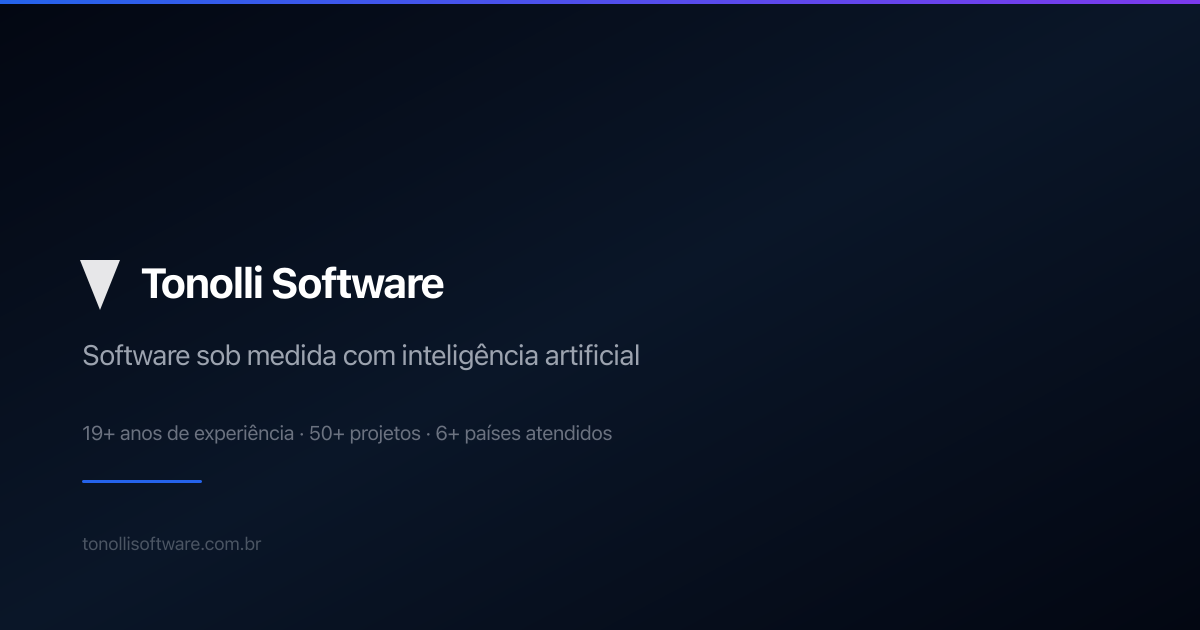
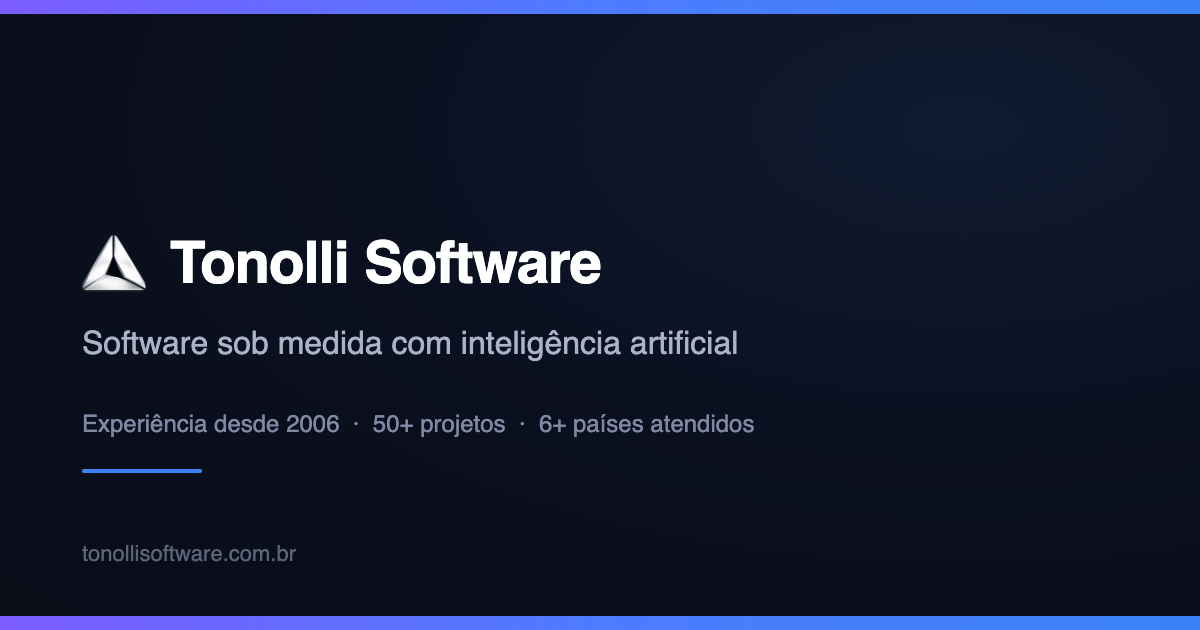
feat(seo): anos de experiencia calculados desde 2006 + og-image atualizada
- src/lib/content.ts: token {anos} nos JSONs de conteudo substituido no
  build por (ano atual - 2006) — "19+" hardcoded vira "20+" automatico
- Consumidores passam a importar o conteudo processado de @/lib/content
- og-image regenerada com logo real, "Experiencia desde 2006" (nao
  envelhece) no lugar de "19+ anos" gravado na arte
- foundingDate 2022 no schema Organization (consistente com /sobre)
- Cron anual no deploy.yml (02/jan) garante rebuild na virada do ano
- sitemap: barra final nas URLs (alinha com canonical, evita 308) e
  dominio sem www (ja estava ajustado no working tree, junto com robots)

diff --git a/src/lib/content.ts b/src/lib/content.ts
@@ -1,0 +1,35 @@
+import site from '@/content/site.json';
+import home from '@/content/home.json';
+import about from '@/content/about.json';
+import services from '@/content/services.json';
+import projects from '@/content/projects.json';
+import contact from '@/content/contact.json';
+
+// Início da carreira do fundador — base de todos os "X+ anos de experiência".
+// O valor é calculado no build (site estático); o cron anual no deploy.yml
+// garante rebuild na virada do ano.
+export const EXPERIENCE_START_YEAR = 2006;
+export const anosDeExperiencia = new Date().getFullYear() - EXPERIENCE_START_YEAR;
+
+// Substitui o token {anos} em qualquer string dos JSONs de conteúdo
+function withYears<T>(value: T): T {
+  if (typeof value === 'string') {
+    return value.replaceAll('{anos}', String(anosDeExperiencia)) as T;
+  }
+  if (Array.isArray(value)) {
+    return value.map(withYears) as T;
+  }
+  if (value && typeof value === 'object') {
+    return Object.fromEntries(
+      Object.entries(value).map(([k, v]) => [k, withYears(v)])
+    ) as T;
+  }
+  return value;
+}
+
+export const siteData = withYears(site);
+export const homeData = withYears(home);
+export const aboutData = withYears(about);
+export const servicesData = withYears(services);
+export const projectsData = withYears(projects);
+export const contactData = withYears(contact);

diff --git a/src/app/page.tsx b/src/app/page.tsx
@@ -6,13 +6,11 @@ import ProjectCard from '@/components/sections/ProjectCard';
 import TrustBar from '@/components/sections/TrustBar';
 import CTA from '@/components/sections/CTA';
 import SectionTitle from '@/components/ui/SectionTitle';
-import homeData from '@/content/home.json';
-import projectsData from '@/content/projects.json';
+import { homeData, projectsData, anosDeExperiencia } from '@/lib/content';
 
 export const metadata: Metadata = {
   title: 'Tonolli Software | Software Sob Medida para Empresas',
-  description:
-    'Fábrica de software B2B com 19+ anos. Desenvolvimento sob medida, modernização de sistemas e integração. 50+ projetos entregues no Brasil e exterior.',
+  description: `Fábrica de software B2B com ${anosDeExperiencia}+ anos de experiência. Desenvolvimento sob medida, modernização de sistemas e integração. 50+ projetos entregues no Brasil e exterior.`,
   alternates: { canonical: '/' },
 };
 

diff --git a/src/app/contato/page.tsx b/src/app/contato/page.tsx
@@ -2,9 +2,8 @@ import type { Metadata } from 'next';
 import { Mail, Phone, MapPin, type LucideIcon } from 'lucide-react';
 import Hero from '@/components/sections/Hero';
 import ContactWizard from '@/components/sections/ContactWizard';
-import contactData from '@/content/contact.json';
 import { breadcrumbJsonLd } from '@/lib/seo';
-import siteData from '@/content/site.json';
+import { contactData, siteData } from '@/lib/content';
 
 const iconMap: Record<string, LucideIcon> = { Mail, Phone, MapPin };
 

diff --git a/src/app/projetos/page.tsx b/src/app/projetos/page.tsx
@@ -2,9 +2,8 @@ import type { Metadata } from 'next';
 import Hero from '@/components/sections/Hero';
 import ProjectCard from '@/components/sections/ProjectCard';
 import CTA from '@/components/sections/CTA';
-import projectsData from '@/content/projects.json';
 import { breadcrumbJsonLd } from '@/lib/seo';
-import siteData from '@/content/site.json';
+import { projectsData, siteData } from '@/lib/content';
 
 export const metadata: Metadata = {
   title: 'Projetos',

diff --git a/src/app/servicos/page.tsx b/src/app/servicos/page.tsx
@@ -11,9 +11,8 @@ import Hero from '@/components/sections/Hero';
 import ProcessSteps from '@/components/sections/ProcessSteps';
 import CTA from '@/components/sections/CTA';
 import SectionTitle from '@/components/ui/SectionTitle';
-import servicesData from '@/content/services.json';
 import { breadcrumbJsonLd, serviceJsonLd } from '@/lib/seo';
-import siteData from '@/content/site.json';
+import { servicesData, siteData } from '@/lib/content';
 
 const iconMap: Record<string, LucideIcon> = {
   Code,

diff --git a/src/app/sobre/page.tsx b/src/app/sobre/page.tsx
@@ -5,9 +5,8 @@ import Stats from '@/components/sections/Stats';
 import CTA from '@/components/sections/CTA';
 import Card from '@/components/ui/Card';
 import SectionTitle from '@/components/ui/SectionTitle';
-import aboutData from '@/content/about.json';
 import { breadcrumbJsonLd } from '@/lib/seo';
-import siteData from '@/content/site.json';
+import { aboutData, siteData } from '@/lib/content';
 
 export const metadata: Metadata = {
   title: 'Sobre',

diff --git a/src/lib/seo.ts b/src/lib/seo.ts
@@ -1,4 +1,4 @@
-import siteData from '@/content/site.json';
+import { siteData } from '@/lib/content';
 
 export function organizationJsonLd() {
   return {
@@ -24,6 +24,7 @@ export function organizationJsonLd() {
       availableLanguage: ['Portuguese', 'English'],
     },
     sameAs: [siteData.social.linkedin, siteData.social.github],
+    foundingDate: '2022',
     founder: {
       '@type': 'Person',
       name: siteData.founder.name,

diff --git a/src/app/contato/obrigado/page.tsx b/src/app/contato/obrigado/page.tsx
@@ -1,7 +1,7 @@
 import type { Metadata } from 'next';
 import Link from 'next/link';
 import { CheckCircle, MessageCircle, ArrowRight } from 'lucide-react';
-import siteData from '@/content/site.json';
+import { siteData } from '@/lib/content';
 
 export const metadata: Metadata = {
   title: 'Projeto recebido — Tonolli Software',

diff --git a/src/app/layout.tsx b/src/app/layout.tsx
@@ -4,8 +4,8 @@ import './globals.css';
 import Header from '@/components/layout/Header';
 import Footer from '@/components/layout/Footer';
 import WhatsAppWidget from '@/components/sections/WhatsAppWidget';
-import siteData from '@/content/site.json';
 import { organizationJsonLd, websiteJsonLd, localBusinessJsonLd } from '@/lib/seo';
+import { siteData } from '@/lib/content';
 
 const inter = Inter({
   variable: '--font-inter',

diff --git a/src/components/layout/Footer.tsx b/src/components/layout/Footer.tsx
@@ -1,7 +1,7 @@
 import Link from 'next/link';
 import Image from 'next/image';
 import { Github, Linkedin, Mail, Phone } from 'lucide-react';
-import siteData from '@/content/site.json';
+import { siteData } from '@/lib/content';
 
 export default function Footer() {
   const currentYear = new Date().getFullYear();

diff --git a/src/components/layout/Header.tsx b/src/components/layout/Header.tsx
@@ -5,8 +5,8 @@ import Image from 'next/image';
 import { useState } from 'react';
 import { usePathname } from 'next/navigation';
 import { Menu, X } from 'lucide-react';
-import siteData from '@/content/site.json';
 import Button from '@/components/ui/Button';
+import { siteData } from '@/lib/content';
 
 export default function Header() {
   const [open, setOpen] = useState(false);

diff --git a/src/components/sections/WhatsAppWidget.tsx b/src/components/sections/WhatsAppWidget.tsx
@@ -2,8 +2,8 @@
 
 import { useState } from 'react';
 import { MessageCircle, X, Send, ArrowLeft } from 'lucide-react';
-import contactData from '@/content/contact.json';
 import { buildWhatsAppUrl } from '@/lib/whatsapp';
+import { contactData } from '@/lib/content';
 
 type Step = 'greeting' | 'questions' | 'message' | 'sending';
 